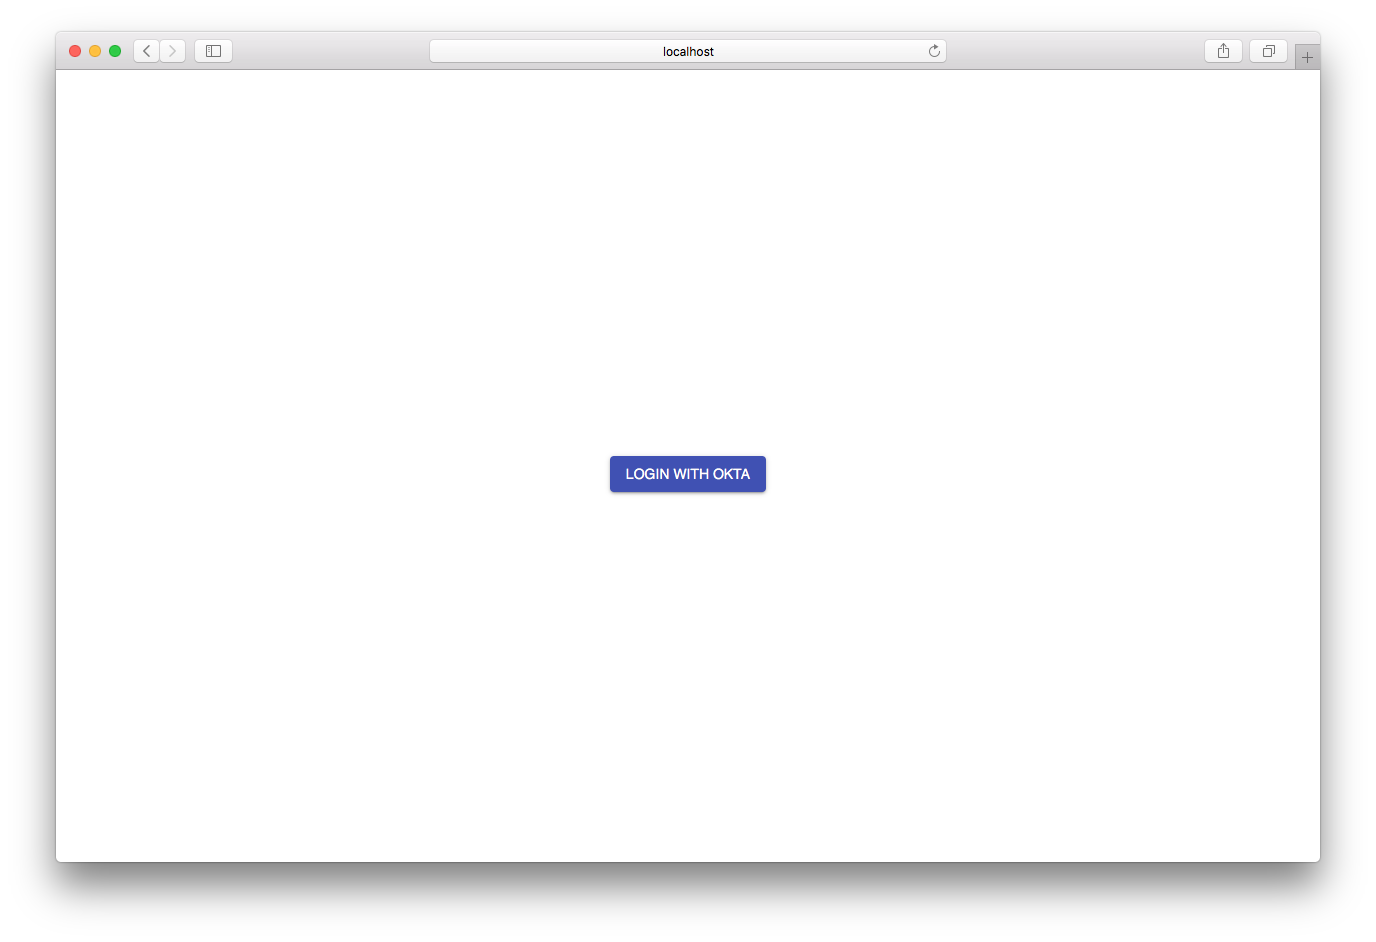
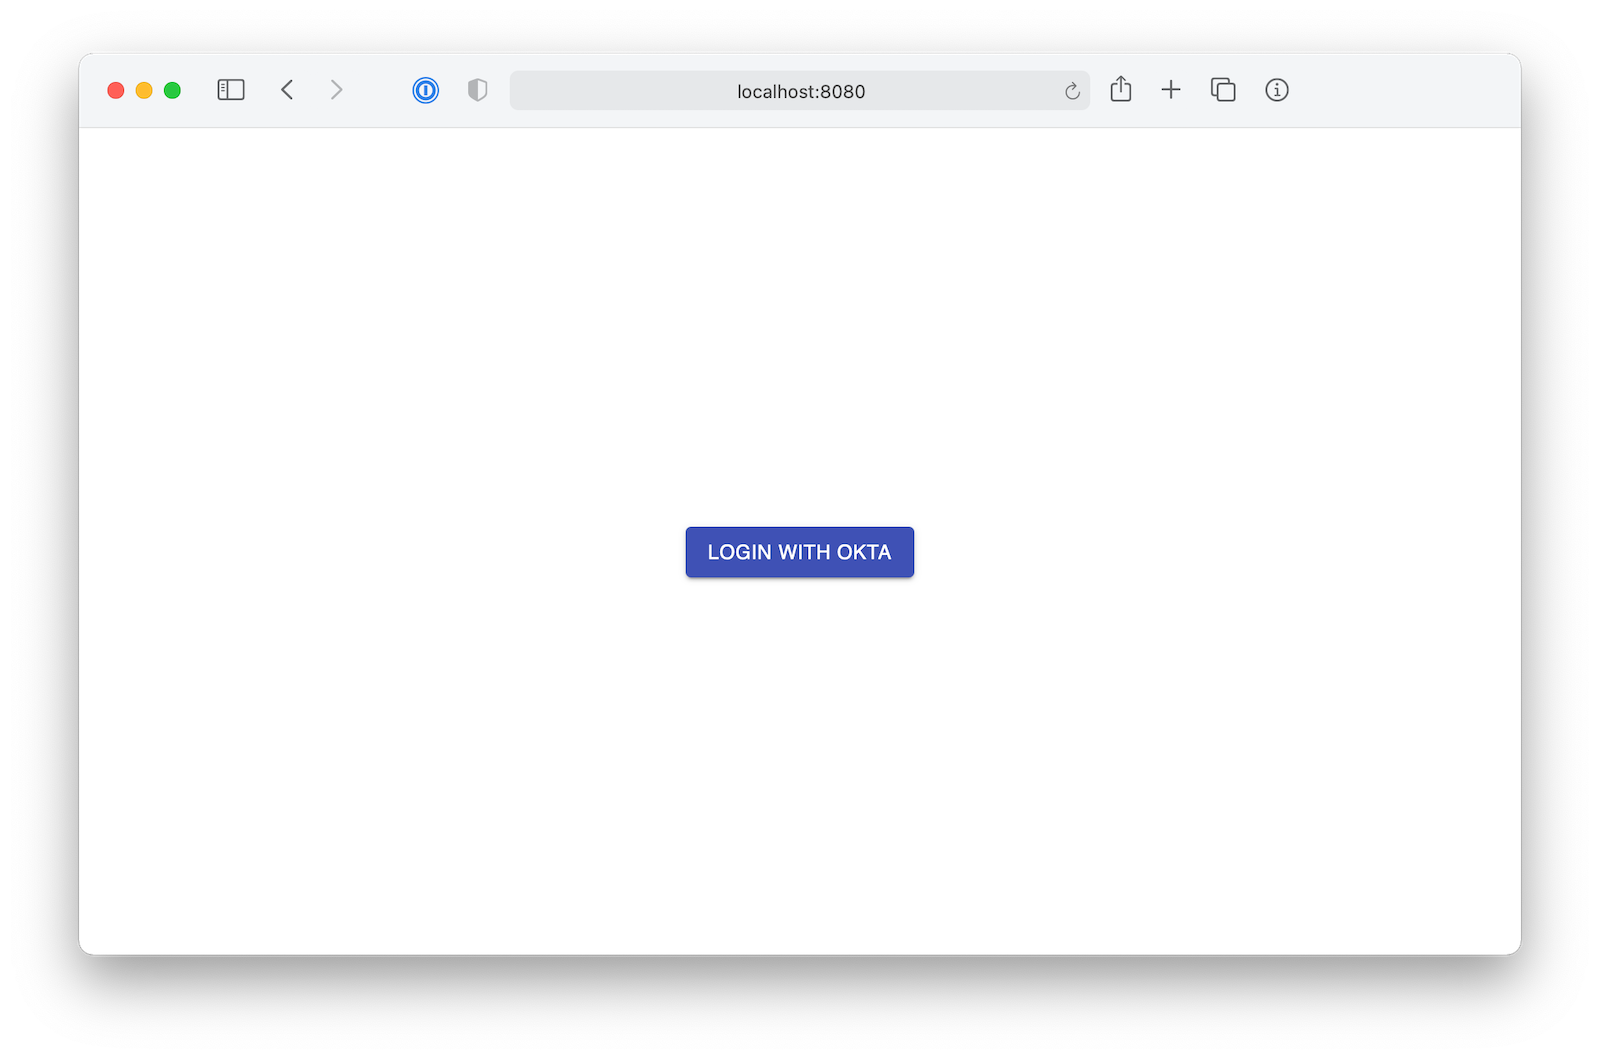
Updates after QA

Changed region(s): [[0.0312, 0.0308, 0.9688, 0.9544], [0.4062, 0.4618, 0.5938, 0.5541]]

diff --git a/_source/_posts/2018-12-20-crud-app-with-python-flask-react.md b/_source/_posts/2018-12-20-crud-app-with-python-flask-react.md
@@ -13,10 +13,11 @@ tweets:
 image: blog/featured/okta-react-skew.jpg
 type: conversion
 changelog:
+  - 2021-04-05: Updated to use the Okta CLI and Okta React SDK v5.1.0. See the code changes in [python-flask-react-crud-example#5](https://github.com/oktadeveloper/python-flask-react-crud-example/pull/5) and the article changes in [okta-blog#698](https://github.com/oktadeveloper/okta-blog/pull/698).
   - 2020-11-02: Updated to use Flask-OIDC and React 17. See the code changes in [python-flask-react-crud-example#4](https://github.com/oktadeveloper/python-flask-react-crud-example/pull/4) and the article changes in [okta-blog#458](https://github.com/oktadeveloper/okta-blog/pull/458).
 ---
 
-Today's modern web applications are often built with a server-side language serving data via an API and a front-end javascript framework that presents the data in an easy to use manner to the end user. Python is a dynamic language widely adopted by companies and developers. The language states on its core values that software should simple, readable making developers more productive and happier. You'll also use Flask to help you to quickly put together a ReST API. React is a declarative, efficient, and flexible JavaScript library developed at Facebook for building user interfaces. It facilitates the creation of complex, interactive, and stateful UIs from small and isolated pieces of code called components.
+Today's modern web applications are often built with a server-side language serving data via an API and a front-end javascript framework that presents the data in an easy-to-use manner to the end user. Python is a dynamic language widely adopted by companies and developers. The language states on its core values that software should simple, readable making developers more productive and happier. You'll also use Flask to help you to quickly put together a ReST API. React is a declarative, efficient, and flexible JavaScript library developed at Facebook for building user interfaces. It facilitates the creation of complex, interactive, and stateful UIs from small and isolated pieces of code called components.
 
 In this tutorial you are going to build a JavaScript application using React in the front-end and we are also going to build a ReST API written in Python which is going to persist. Our app will be a Github open source bookmark project (a.k.a `kudo`).
 
@@ -481,18 +482,29 @@ cd app/http/web
 npx create-react-app app
 ```
 
-`create-react-app` might take a few minutes to generate the boilerplate application. Go to the recently created `app` directory and run `npm start`.
-
-By default, the React app generated by `create-react-app` will run listening on port 3000. Let's change it to listen to the port 8080. 
-
-Change the `start` command on the file `app/http/web/app/package.json` to use the correct port.
-
-{% img blog/python-react/start-script.png alt:"Change port to 8080" width:"400" %}{: .center-image }
-
-Then, run the React app.
+[Create React App](https://create-react-app.dev/) might take a few minutes to generate the boilerplate application. Go to the recently created `app` directory and run `npm start`.
 
 ```bash
 cd app
+npm start
+```
+
+By default, the React app generated by `create-react-app` will run listening on port 3000. Let's change it to listen to the port 8080. 
+
+Change the `start` command on the file `app/http/web/app/package.json` to use port 8080.
+
+```diff
+   "scripts": {
+-    "start": "react-scripts start",
++    "start": "PORT=8080 react-scripts start",
+     "build": "react-scripts build",
+     "test": "react-scripts test",
+     "eject": "react-scripts eject"
+```
+
+Then, run the app again.
+
+```bash
 npm start
 ```
 
@@ -505,8 +517,8 @@ Your goal now is to use [Material Design](https://material.io/design/) to create
 Run the following commands to install what you will need from Material Design.
 
 ```bash
-npm i @material-ui/core@4.11.0
-npm i @material-ui/icons@4.9.1
+npm i @material-ui/core@4.11.3
+npm i @material-ui/icons@4.11.2
 ```
 
 Great, now you have components like: Grid, Card, Icon, AppBar and many more ready to be imported and used. You will use them soon. Let's talk about protected routes.
@@ -516,7 +528,7 @@ Great, now you have components like: Grid, Card, Icon, AppBar and many more read
 Writing secure user authentication and building login pages are easy to get wrong and can be the downfall of a new project. Okta makes it simple to implement all the user management functionality quickly and securely. 
 
 {% include setup/cli.md type="spa" framework="React" signup="false" 
-   loginRedirectUri="http://localhost:3000/callback" %}
+   loginRedirectUri="http://localhost:8080/callback" %}
 
 ### Create Your React Routes
 
@@ -541,7 +553,8 @@ npm i react-router-dom@5.2.0
 And to install the Okta React SDK run the command:
 
 ```bash
-npm i @okta/okta-react@3.0.8
+npm i @okta/okta-react@5.1.0
+npm i @okta/okta-auth-js@4.8.0
 ```
 
 Now, go head and create your Main component.
@@ -560,29 +573,36 @@ And paste the following content into the recently created file:
 
 ```jsx
 import React, { Component } from 'react';
-import { Switch, Route, BrowserRouter as Router } from 'react-router-dom'
+import { Switch, Route } from 'react-router-dom'
 import { Security, LoginCallback, SecureRoute } from '@okta/okta-react';
+import { OktaAuth, toRelativeUrl } from '@okta/okta-auth-js';
 
 import Login from '../Login'
 import Home from '../Home'
 
 class Main extends Component {
+  
+  constructor(props) {
+    super(props);
+    this.oktaAuth = new OktaAuth({
+      issuer: 'https://{yourOktaDomain}/oauth2/default',
+      clientId: '{clientId}',
+      redirectUri: window.location.origin + '/callback'
+    });
+    this.restoreOriginalUri = async (_oktaAuth, originalUri) => {
+      props.history.replace(toRelativeUrl(originalUri, window.location.origin));
+    };
+  }
+  
   render() {
     return (
-      <Router>
-        <Security
-          issuer='https://{yourOktaDomain}/oauth2/default'
-          client_id='{yourClientId}'
-          redirect_uri={window.location.origin + '/callback'}
-          scope={['openid', 'profile', 'email']}>
-        
-          <Switch>
-            <Route exact path="/" component={Login} />
-            <Route path="/callback" component={LoginCallback} />
-            <SecureRoute path="/home" component={Home} />
-          </Switch>
-        </Security>
-      </Router>
+      <Security oktaAuth={this.oktaAuth} restoreOriginalUri={this.restoreOriginalUri}>
+        <Switch>
+          <Route exact path="/" component={Login} />
+          <Route path="/callback" component={LoginCallback} />
+          <SecureRoute path="/home" component={Home} />
+        </Switch>
+      </Security>
     );
   }
 }
@@ -643,39 +663,26 @@ import { Redirect } from 'react-router-dom'
 import { withOktaAuth } from '@okta/okta-react';
 
 class Login extends React.Component {
- constructor(props) {
-   super(props);
-   this.state = { authenticated: null };
-   this.checkAuthentication = this.checkAuthentication.bind(this);
-   this.login = this.login.bind(this);
- }
+  constructor(props) {
+    super(props);
+    this.login = this.login.bind(this);
+  }
 
- async checkAuthentication() {
-   const authenticated = await this.props.authState.isAuthenticated;
-   if (authenticated !== this.state.authenticated) {
-     this.setState({ authenticated });
-   }
- }
+  async login() {
+    await this.props.oktaAuth.signInWithRedirect();
+  }
 
- async componentDidMount() {
-   this.checkAuthentication()
- }
-
- async login(e) {
-   this.props.authService.login('/home');
- }
-
- render() {
-   if (this.state.authenticated) {
-     return <Redirect to='/home' />
-   } else {
-     return (
-       <div style={{height: '100vh', display: 'flex', alignItems: 'center', justifyContent: 'center'}}>
-         <Button variant="contained" color="primary" onClick={this.login}>Login with Okta</Button>
-       </div>
-     )
-   }
- }
+  render() {
+    if (this.props.authState.isAuthenticated) {
+      return <Redirect to='/home' />
+    } else {
+      return (
+        <div style={{height: '100vh', display: 'flex', alignItems: 'center', justifyContent: 'center'}}>
+          <Button variant="contained" color="primary" onClick={this.login}>Login with Okta</Button>
+        </div>
+      )
+    }
+  }
 }
 
 export default withOktaAuth(Login);
@@ -701,7 +708,7 @@ And paste the following content into it:
 ```jsx
 import React from 'react'
 
-const home = (props) => {
+const home = () => {
   return (
     <div>Home</div>
   )
@@ -899,7 +906,7 @@ class SearchBar extends React.Component {
 
   async logout(e) {
     e.preventDefault();
-    this.props.authService.logout('/');
+    await this.props.oktaAuth.signOut();
   }
 
   render() {
@@ -941,7 +948,7 @@ export default withStyles(styles)(withOktaAuth(SearchBar));
 
 The `SearchBar` component receives one `prop` called `onSearch` which is the function that should be called in each `keyPress` event triggered in the search text input.
 
-The `SearchBar` uses the `withOktaAuth` helper provided by Okta React SDK which will inject the `authService` object in the `props` of the component. The `authService` object has a method called `logout()` that will wipe out all user related data from the session. This is exactly what you want in order to log the user out. 
+The `SearchBar` uses the `withOktaAuth` helper provided by Okta React SDK which will inject the `oktaAuth` object in the `props` of the component. The `oktaAuth` object has a method called `signOut()` that will wipe out all user related data from the session. This is exactly what you want in order to log the user out. 
 
 Now it's time to work on the `Home` component. One of the dependencies the component has is the [`react-swipeable-views`](https://github.com/oliviertassinari/react-swipeable-views) library which will add nice animations when the user changes tabs.
 
@@ -980,7 +987,7 @@ touch src/apiClient.js
 And install [`axios`](https://github.com/axios/axios) to help you to perform HTTP calls to your flask API.
 
 ```bash
-npm i axios@0.21.0
+npm i axios@0.21.1
 ```
 
 Then, paste the following content:
@@ -1031,7 +1038,7 @@ export default APIClient;
 
 Great! Your `APIClient`'s method `perform` is adding the user's `accessToken` to the `Authorization` HTTP header of  every request, which means, it's authenticating every request. When the server receives these HTTP requests your Okta middleware will be able to verify the token and to extract user details from it as well. 
 
-Normally, you might create separate components for getting the user's bookmarks and for searching for github repos. For simplicity's sake you'll put them all in the `HomeComponent`
+Normally, you might create separate components for getting the user's bookmarks and for searching for github repos. For simplicity's sake you'll put them all in the `HomeComponent`.
 
 Paste the following content in the `src/Home/index.js` file.
 
@@ -1070,8 +1077,8 @@ class Home extends React.Component {
     kudos: []
   };
 
-  async componentDidMount() {
-    const accessToken = await this.props.authService.getAccessToken()
+  componentDidMount() {
+    const accessToken = this.props.authState.accessToken;
     this.apiClient = new APIClient(accessToken);
     this.apiClient.getKudos().then((data) =>
       this.setState({...this.state, kudos: data})
@@ -1160,10 +1167,10 @@ class Home extends React.Component {
           index={this.state.value}
           onChangeIndex={this.handleTabChangeIndex}
         >
-          <Grid container spacing={16} style={{padding: '20px 0'}}>
+          <Grid container spacing={10} style={{padding: '20px 0'}}>
             { this.renderRepos(this.state.kudos) }
           </Grid>
-          <Grid container spacing={16} style={{padding: '20px 0'}}>
+          <Grid container spacing={10} style={{padding: '20px 0'}}>
             { this.renderRepos(this.state.repos) }
           </Grid>
         </SwipeableViews>
